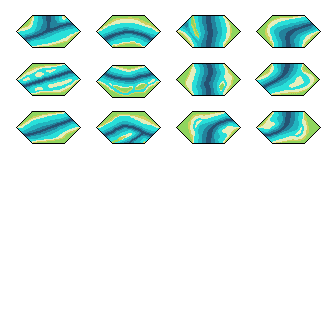
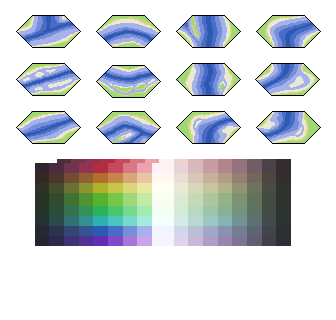
art push

diff --git a/scripts/genramp.py b/scripts/genramp.py
@@ -5,12 +5,12 @@ import colorsys
 import sys
 
 V = [20, 30, 45, 58, 70, 78, 85, 92, 100]
-S = [30, 40, 52, 65, 75, 63, 45, 30, 15]
-H = [350, 30, 60, 100, 140, 180, 220, 265]
+S = [30, 45, 55, 65, 75, 63, 45, 30, 15]
+H = [350, 30, 61, 100, 140, 180, 220, 265]
 
-H_ADJ = 8
+H_ADJ = 0
 
-C_ADJ = 40
+C_ADJ = 50
 
 assert(len(V) == len(S))
 
@@ -21,22 +21,22 @@ def main(dst):
     for y, h in enumerate(H):
         for i, (s, v) in enumerate(zip(S, V)):
             if (i - 4) < 0:
-                BLUE_H = 240
-                if h < 240 - 180:
-                    BLUE_H -= 360
-
-                w = (i - 4) / C_ADJ
+                if h > 60 and h < 240:
+                    BLUE_H = 240
+                else:
+                    BLUE_H = 240 - 360
+                w = abs ((i - 4) / C_ADJ)
                 hh = (BLUE_H * w + (1 - w) * h)
             else:
                 RED_H = 0
                 if h > 180:
-                    RED_H = 180
-                w = (i - 4) / C_ADJ
+                    RED_H = 360
+                w = abs ((i - 4) / C_ADJ)
                 hh = (RED_H * w + (1 - w) * h)
 
             hh += (i - 4) * H_ADJ
-                    
-            (r, g, b) = colorsys.hsv_to_rgb(hh/360, s/100, v/100)            
+
+            (r, g, b) = colorsys.hsv_to_rgb(hh/360, s/100, v/100)
 
             im.putpixel((i, y), (int (r * 255), int (g *255), int (b * 255)))
 
